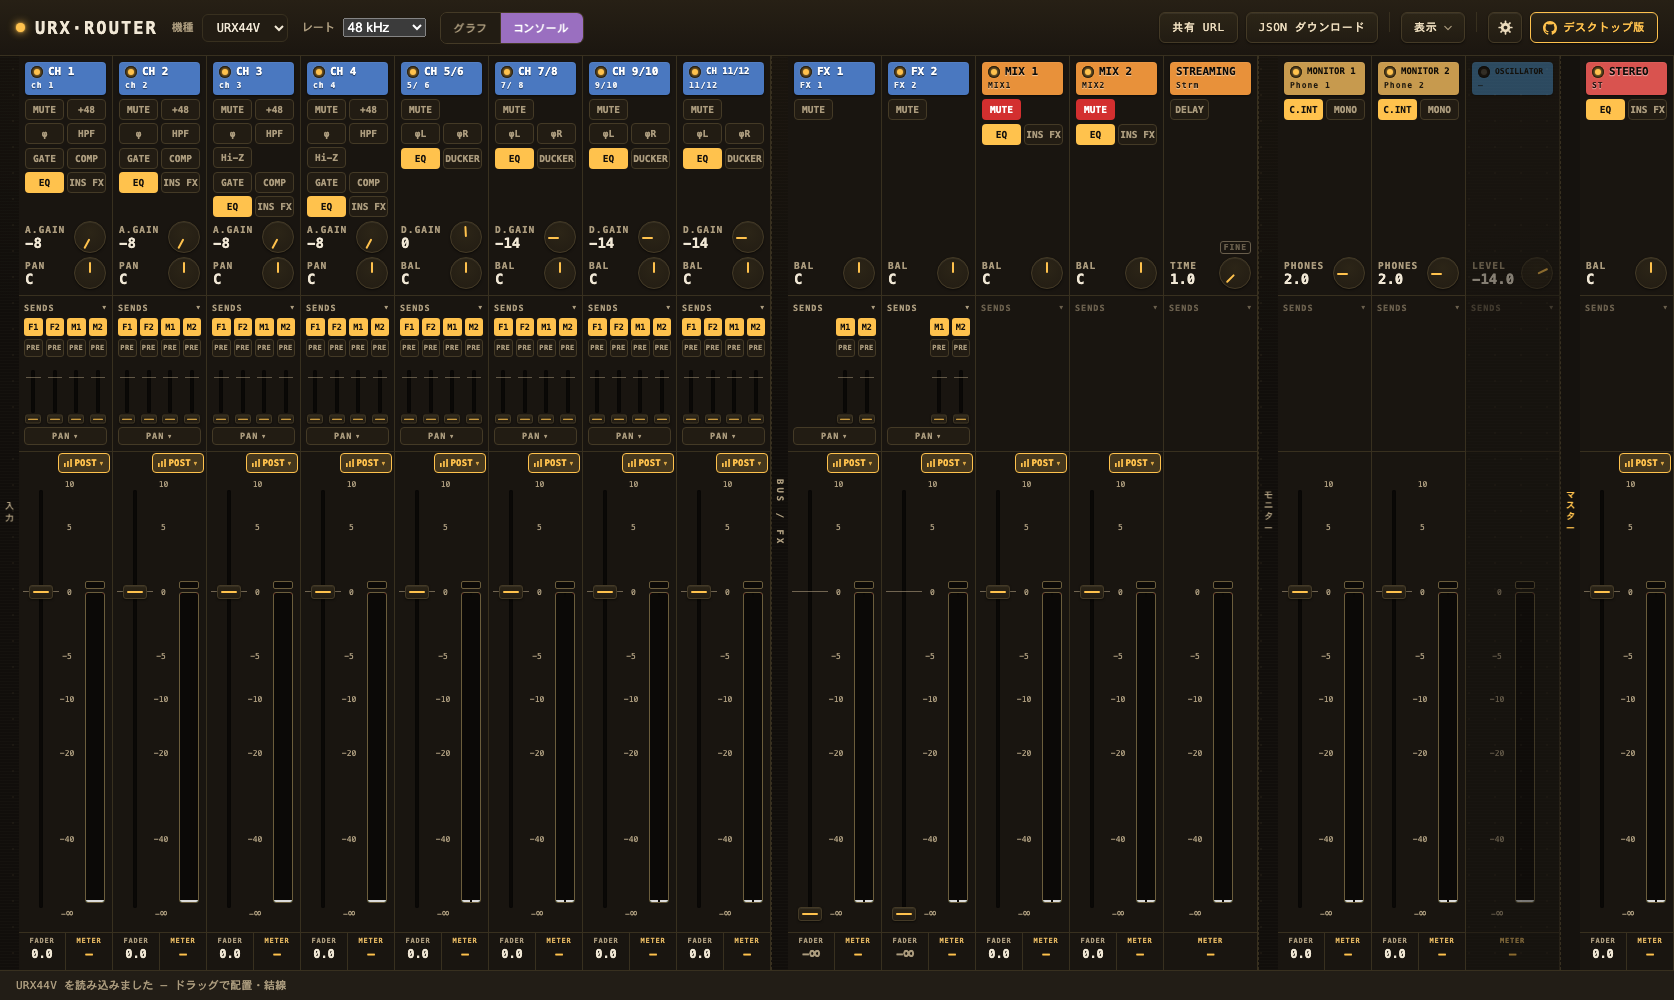
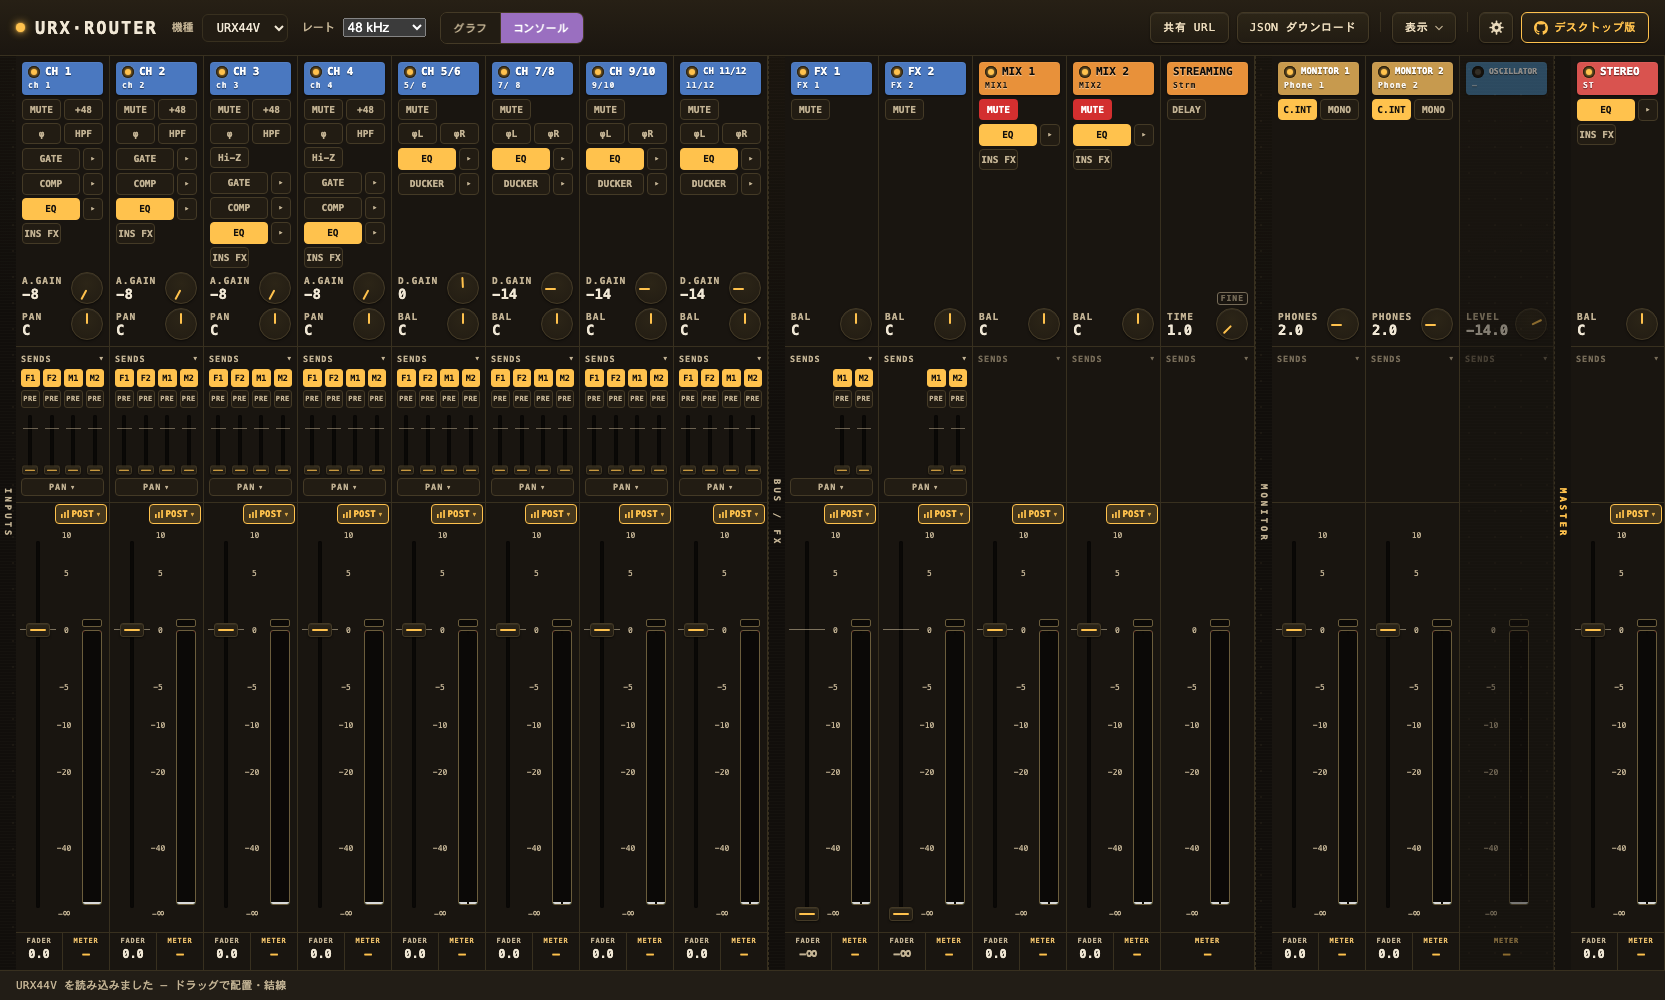
docs: re-shoot the Japanese console screenshot after the separator change
The committed shot still read 入力 / モニター / マスター down its separators, and
it was 1674px wide where the English one is 1665 — the nine pixels the Japanese
labels used to add. Both now match.

The section describing the view named the groups in Japanese with the English in
brackets, which read as though the app showed the Japanese; it names the labels
directly instead.

Note for anyone regenerating the whole set: the other five shots also differ
from a fresh capture, including both English ones, so that drift predates this
change and is not addressed here.

diff --git a/docs/ja/architecture.md b/docs/ja/architecture.md
@@ -649,8 +649,8 @@ range 入力のトラックとつまみは `::-webkit-` の擬似要素で、こ
 
 ノードグラフ (GRAPH) に加え、同じ plan をミキサー型の縦ストリップで俯瞰する第 2 ビューを持つ。
 ツールバーの GRAPH / CONSOLE タブで切り替え、CONSOLE 表示中はグラフとインスペクタを隠す
-(`main.ts` の `setView`)。`src/ui/console.ts` が入力 (INPUTS) / バス・FX (BUS / FX) /
-モニター (MONITOR) / マスター (MASTER) のグループにストリップを並べる。各ストリップは横スクロールで
+(`main.ts` の `setView`)。`src/ui/console.ts` が `INPUTS` / `BUS / FX` /
+`MONITOR` / `MASTER` の 4 グループにストリップを並べる (区切りラベルはどの言語でもこの表記)。各ストリップは横スクロールで
 並ぶ (左端の共有ルーラーは持たない)。フェーダーゾーンは **フェーダー** (実機調の細い溝＋つまみ。位置=設定値) /
 **dB スケール** / **レベルメーター** の 3 列。メーターはこの 1 つの目盛を共有する: 信号ラダー (信号は
 Live sync 中のみ) が各 dBFS 読み値を対応する dB 目盛と同じ位置に描き、**上端は 0 dB**・下端は最下段の実 detent (−96 dB)。
